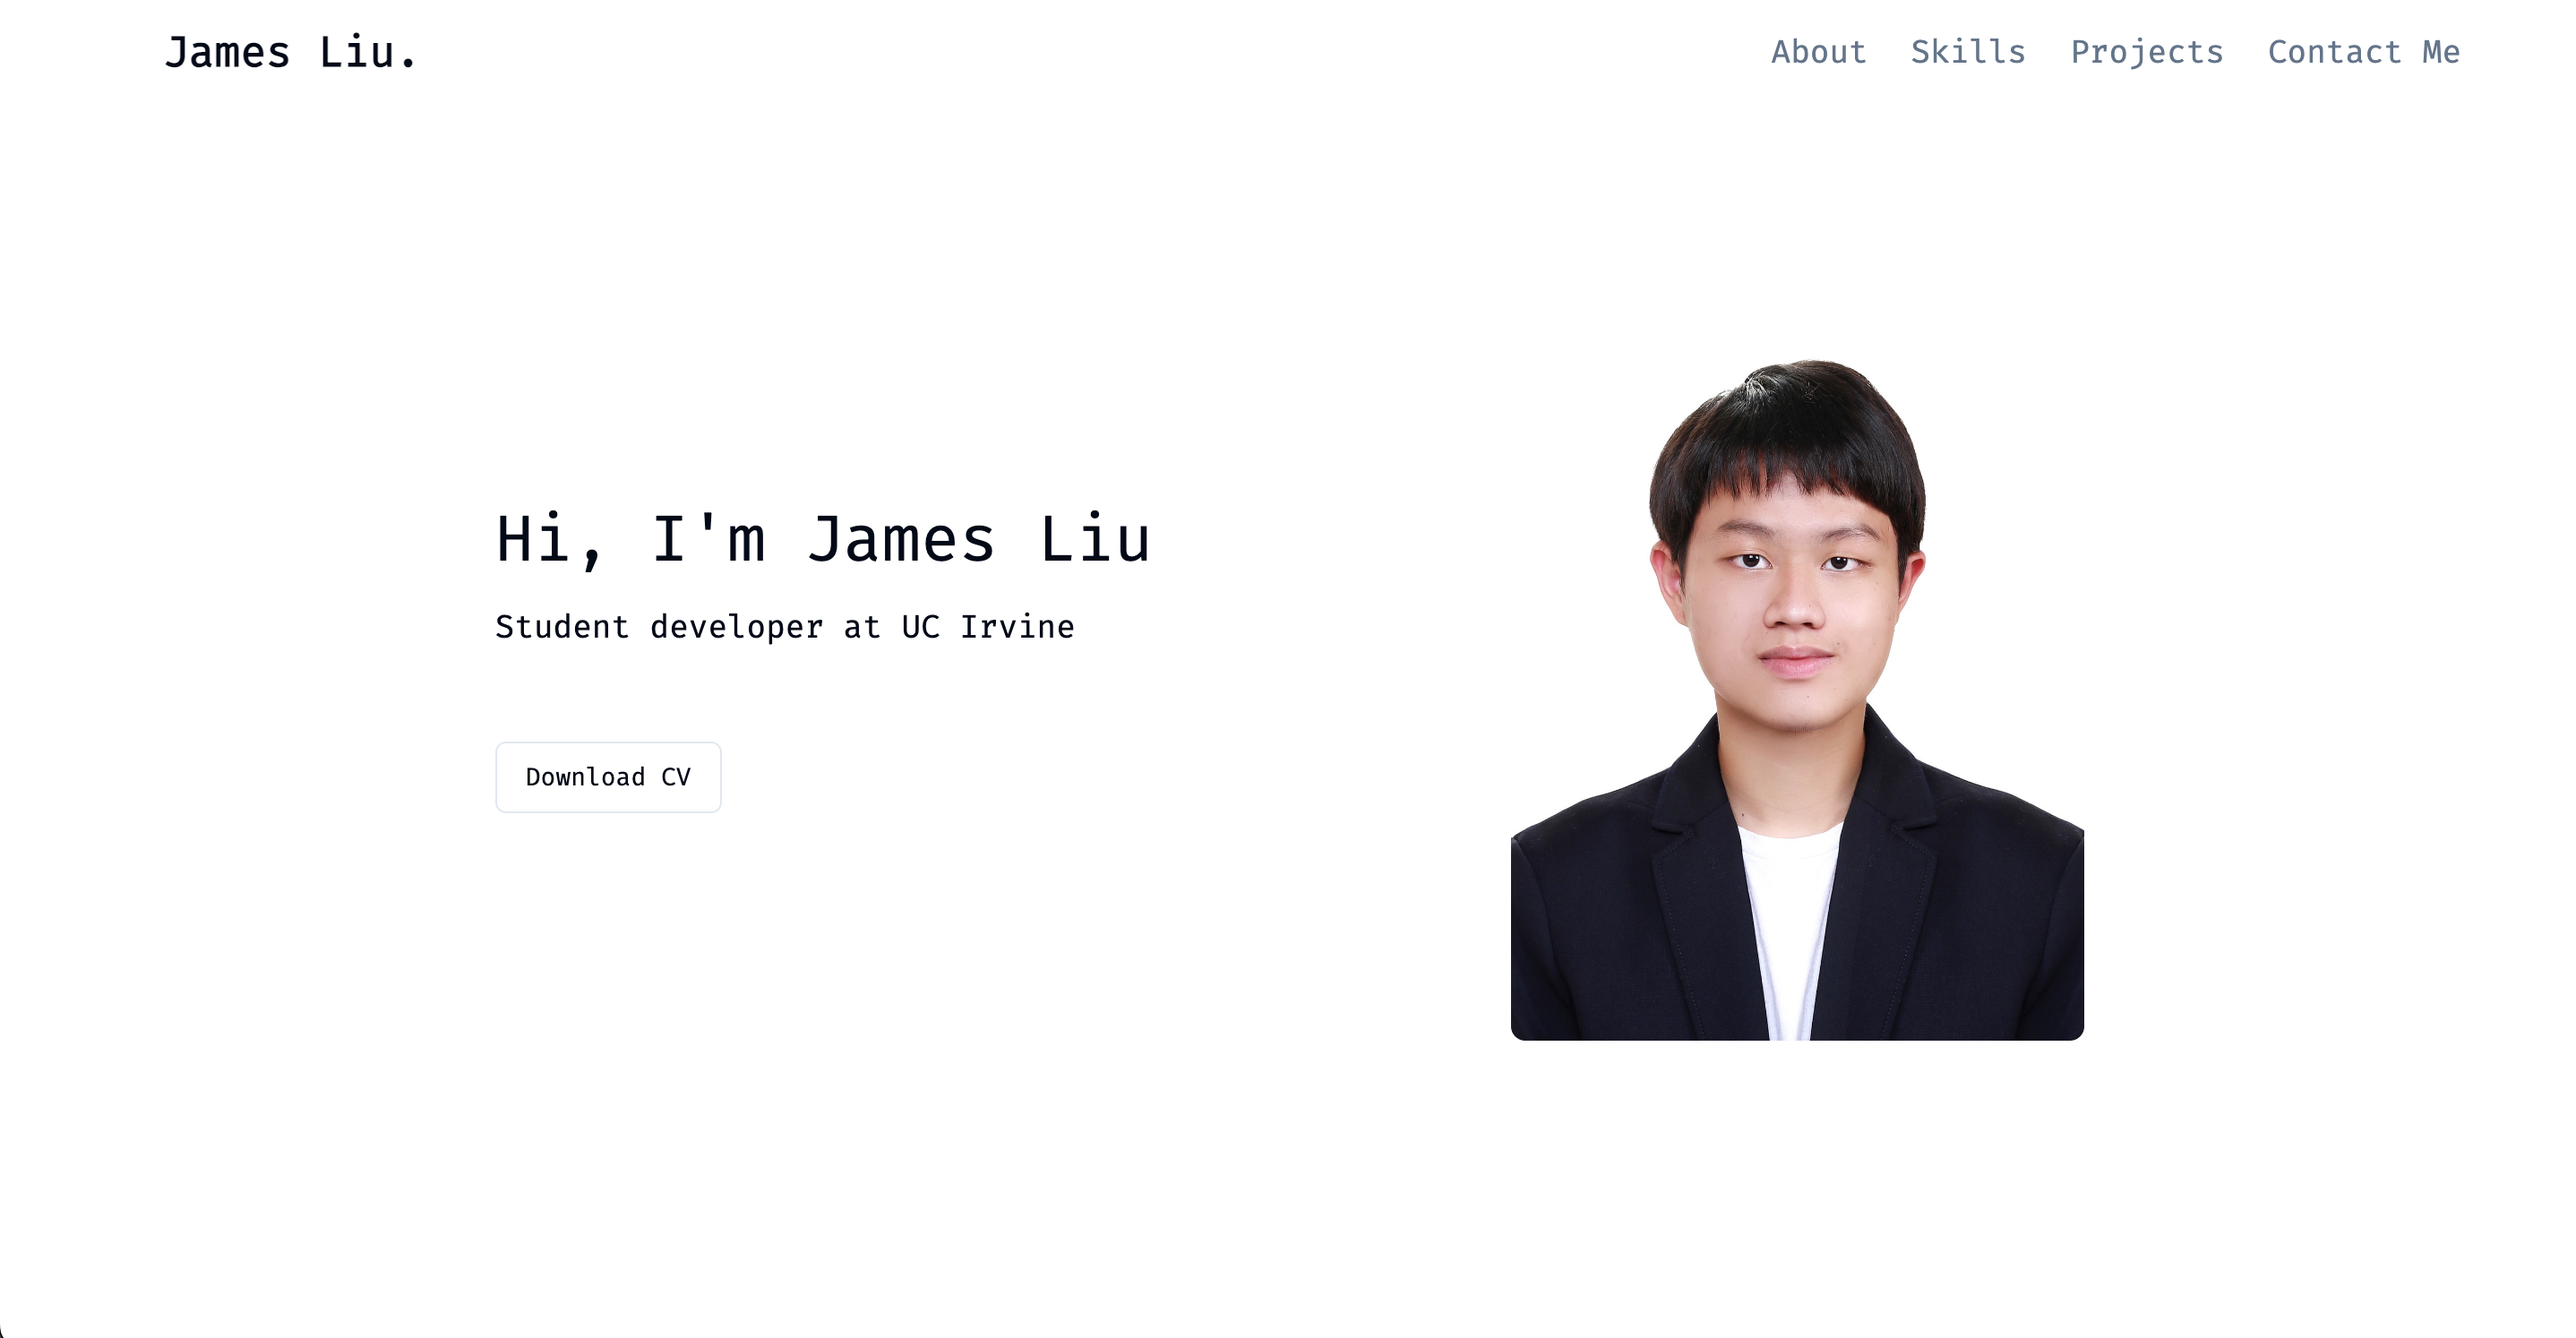
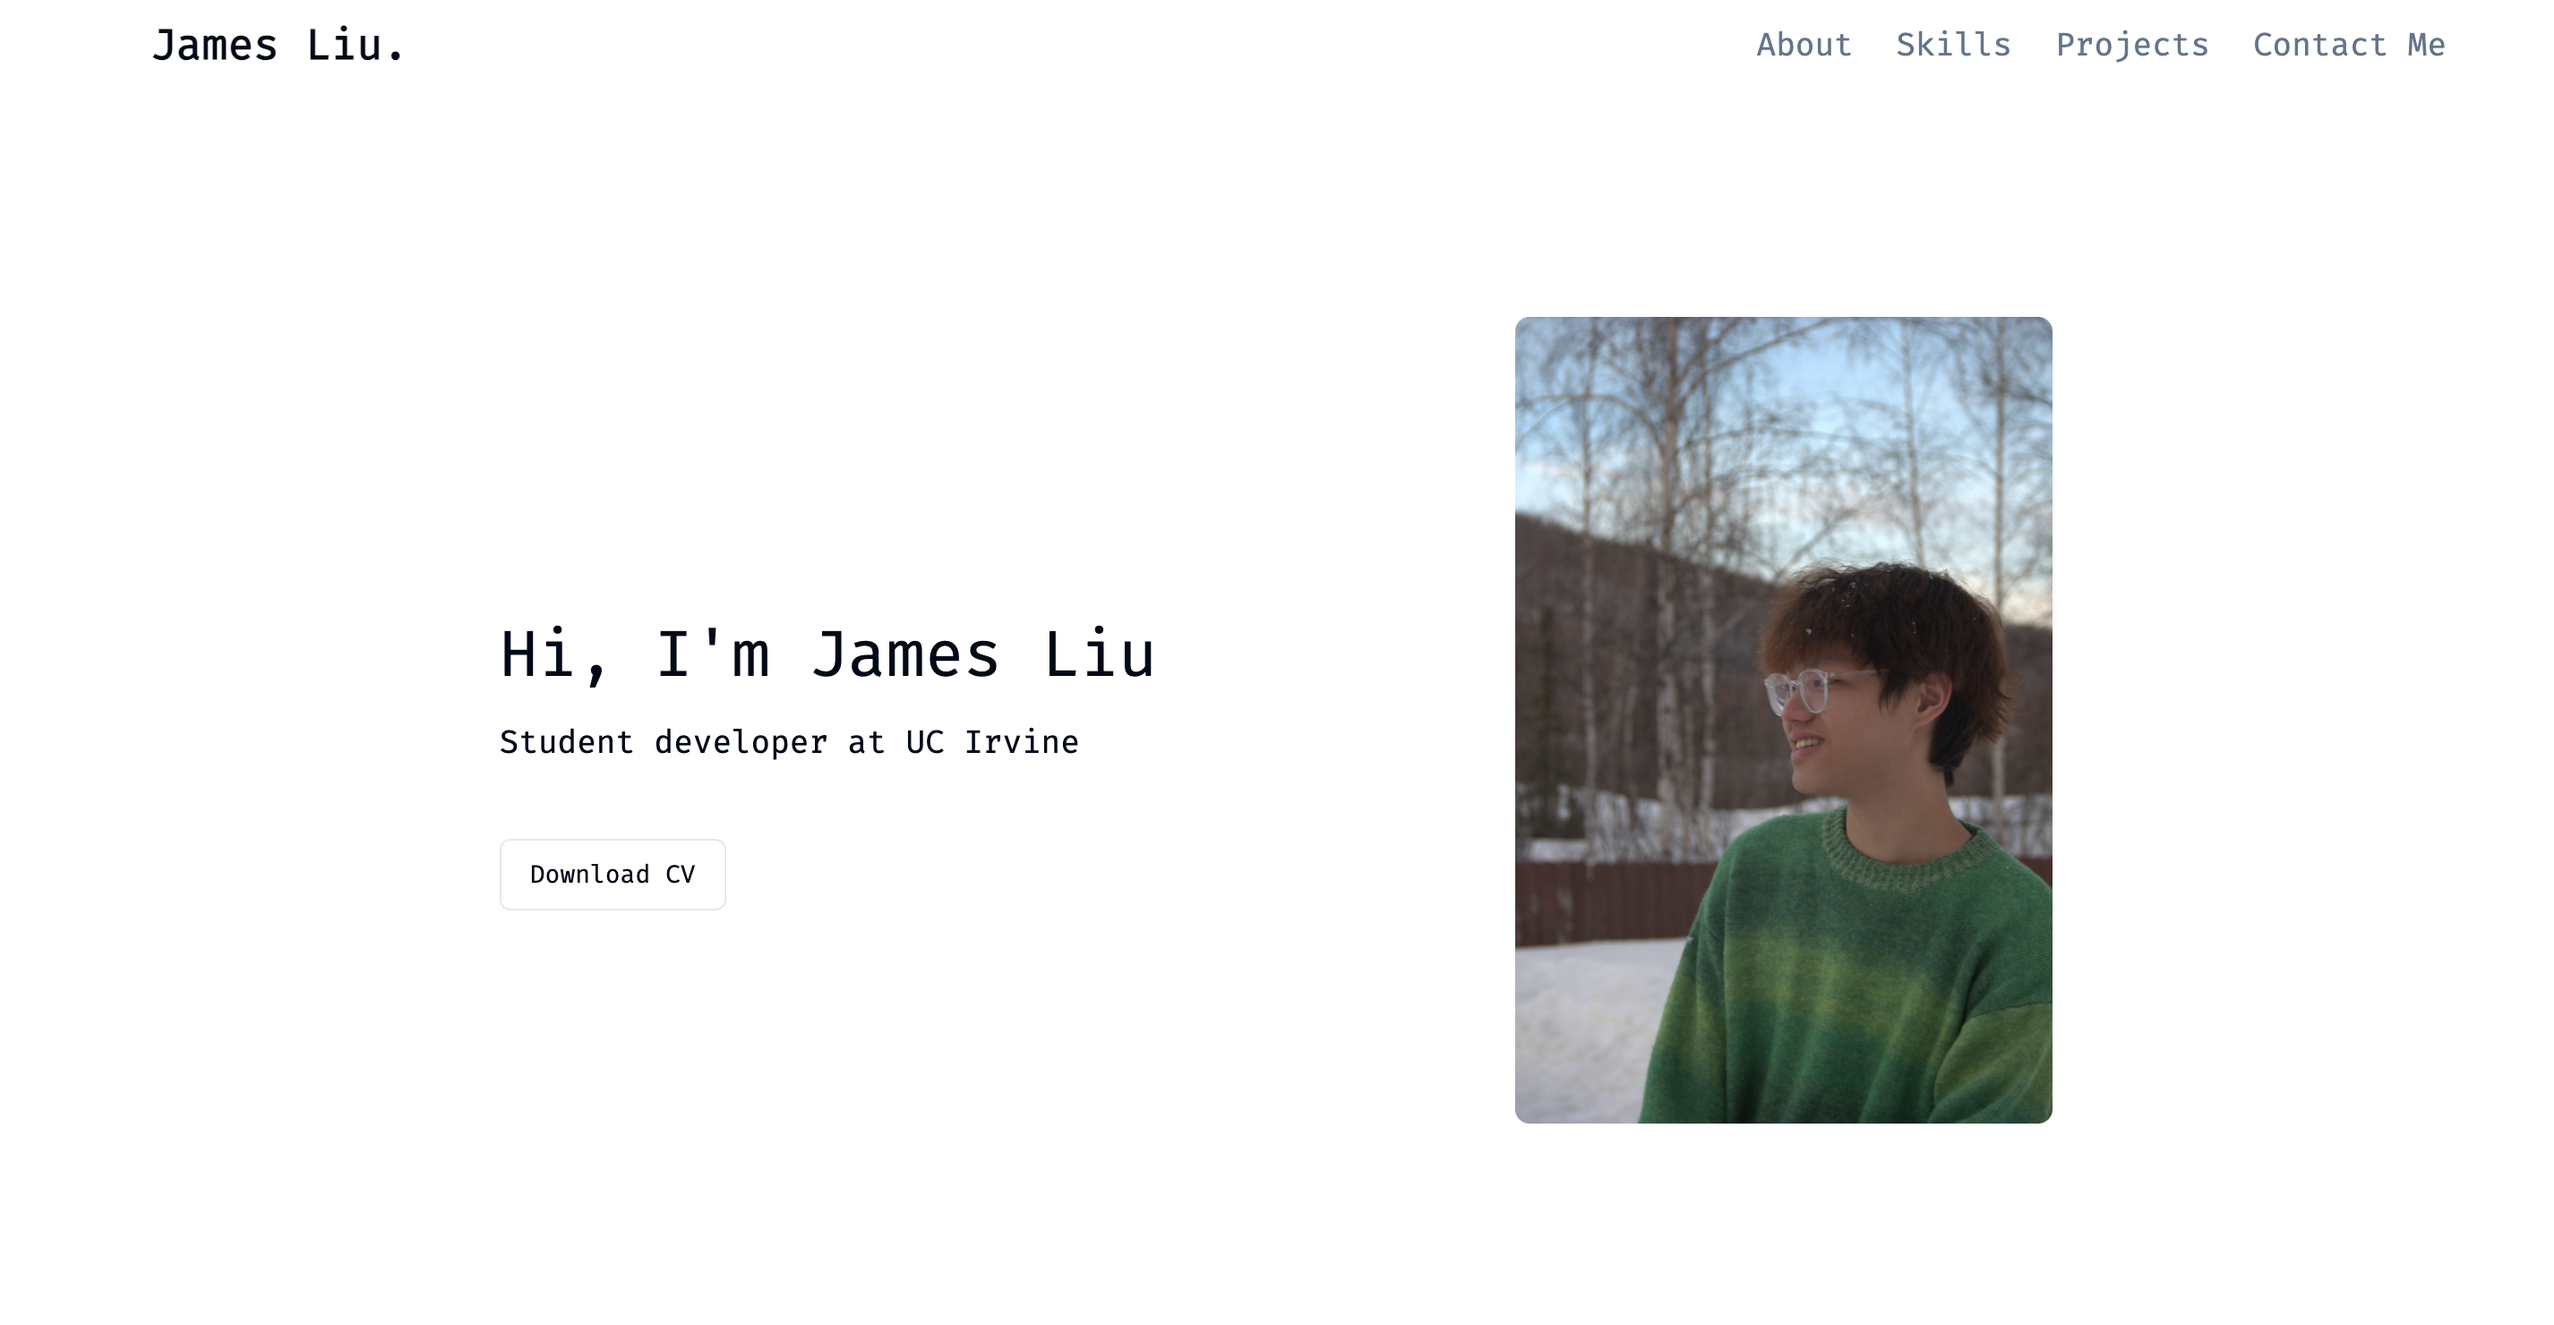
update pic and small fix

diff --git a/src/app/project.tsx b/src/app/project.tsx
@@ -33,7 +33,7 @@ export default function Projects() {
               shadcn/ui.
             </CardContent>
           </Card>
-          <div className="relative w-full h-[200px] z-10 md:w-[600px]">
+          <div className="relative w-full h-[200px] z-10 md:w-[600px] mb-[30px]">
             <button
               onClick={() =>
                 handleProjectClicked("https://github.com/jamesxxz/portfolio")
@@ -63,7 +63,7 @@ export default function Projects() {
                 and efficient management for lab administrators
               </CardContent>
             </Card>
-            <div className="relative w-full h-[200px] z-10 md:w-[600px]">
+            <div className="relative w-full h-[200px] z-10 md:w-[600px] mb-[30px]">
               <button
                 onClick={() =>
                   handleProjectClicked("https://github.com/ChrastilLab/Concord")
@@ -114,7 +114,7 @@ export default function Projects() {
             <CardHeader>
               <CardTitle className="text-lg">Direct Messaging chat</CardTitle>
             </CardHeader>
-            <CardContent className="text-sm mt-5">
+            <CardContent className="text-sm mt-5 mt-[1px]">
               A chatting GUI that interacts with the existing server and allows
               different users to exchange messages through internal commands
               supported by the server.

diff --git a/src/app/contact.tsx b/src/app/contact.tsx
@@ -13,7 +13,7 @@ export default function Contacts() {
 
       <div className="flex flex-col sm:flex-row items-center relative w-full">
         <Separator className="w-full sm:w-[550px] bg-black" />
-        <div className="mt-4 sm:mt-0 sm:ml-20 flex gap-3 justify-center">
+        <div className="mt-2 sm:mt-0 sm:ml-20 flex gap-3 justify-center">
           <a
             className="hover:opacity-75 text-slate-800"
             onClick={() =>
@@ -49,7 +49,7 @@ export default function Contacts() {
       </div>
 
       <div className="flex flex-col sm:flex-row items-center relative w-full justify-end">
-        <p className="mr-0 sm:mr-8 flex gap-2 flex-wrap justify-center">
+        <p className="mr-0 mb-2 sm:mr-8 flex gap-2 flex-wrap justify-center">
           <a href="mailto:jamesliu1027z@gmail.com" className="hover:underline">
             jamesliu1027z@gmail.com
           </a>
